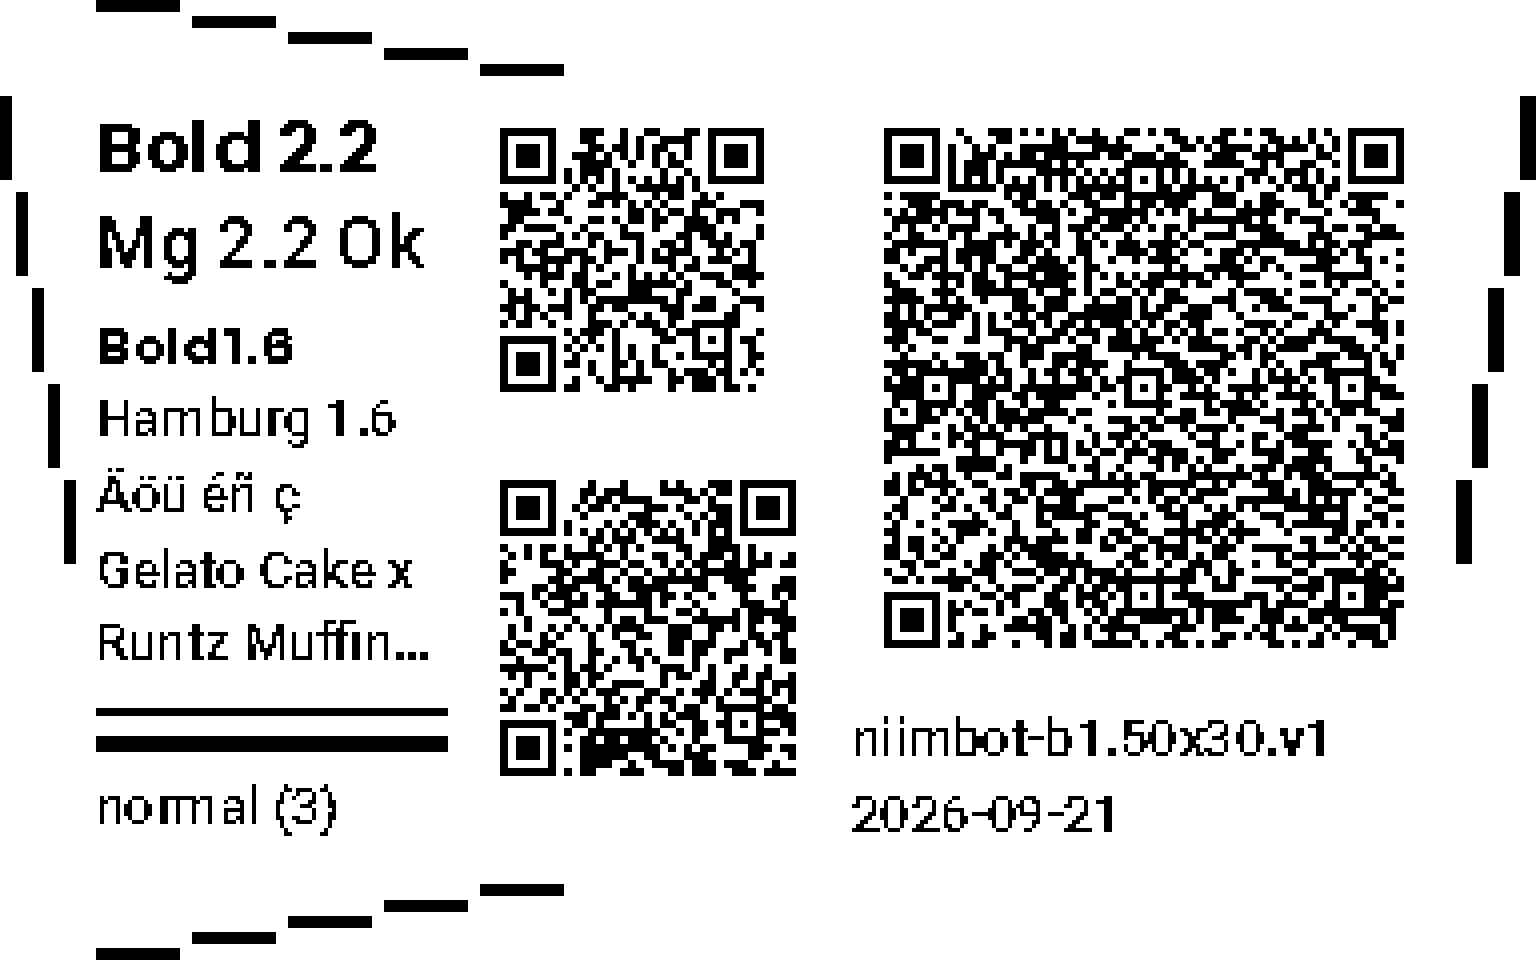
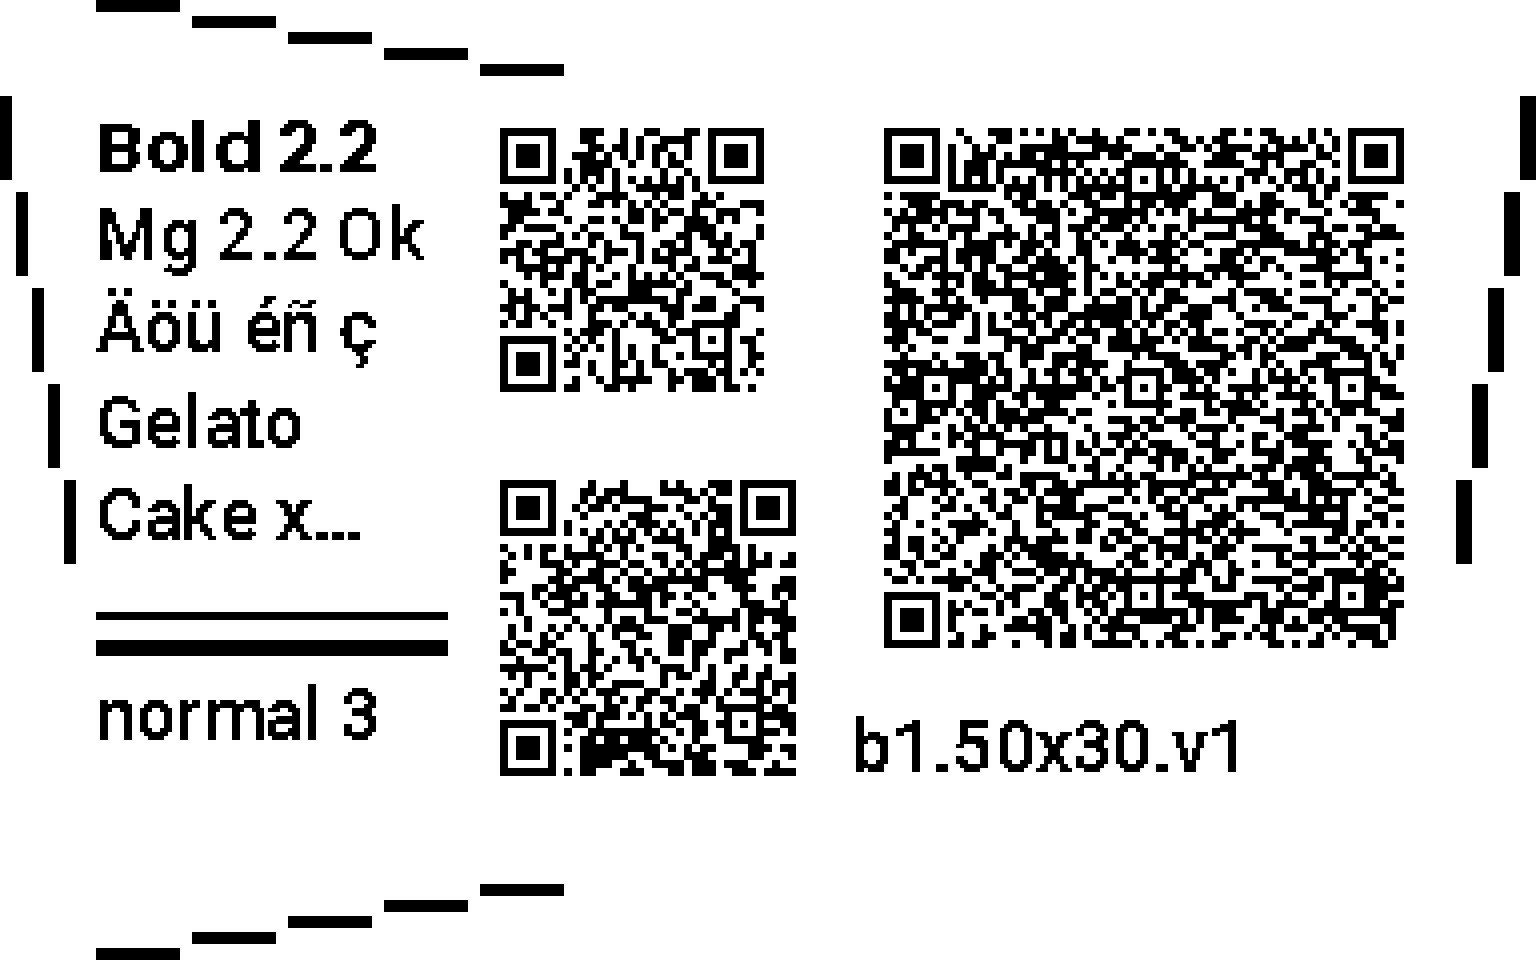
docs(labels): describe the evidence label at the B1's proven 2.2 mm floor
Issue #231. The B1 profile was promoted on the 2026-09-22 run, which showed
regular 1.6 mm text unreadable at every density. The procedure now shows the
sheet as it is drawn at the 2.2 mm floor, and points at the retained record in
growspace_manager.

diff --git a/docs/label-evidence.md b/docs/label-evidence.md
@@ -15,6 +15,8 @@ Most of the matrix comes from one label: the **evidence label**.
 
 ![The evidence label for growspace.profile.niimbot-b1.50x30.v1 at normal density, rendered by imagespec at 4x](acceptance/images/label-evidence-sheet-b1-50x30.png)
 
+The B1 profile was promoted on this procedure on 2026-09-22; its record, run log and photograph are in `growspace_manager/docs/evidence/labels/niimbot-b1.50x30.v1/2026-09-22/`. The run showed regular text at 1.6 mm unreadable at every density, so the profile's floor is now 2.2 mm and the sheet above is drawn at that floor.
+
 Every probe on it is sized from the profile's own claimed limits, so it tests
 exactly what the profile says it can do:
 
@@ -25,9 +27,9 @@ exactly what the profile says it can do:
 | Middle column, bottom   | QR: a dashboard plant URL (74 bytes)                                                          | typical target, same settings                                       |
 | Right, large            | QR: exactly 256 bytes ending in `#256`                                                        | the claimed maximum encoded bytes, same settings                    |
 | Left, first two lines   | `Bold 2.2`, `Mg 2.2 Ok`                                                                       | comfort threshold, both faces                                       |
-| Left, next lines        | `Bold 1.6`, `Hamburg 1.6`, `Äöü éñ ç`, a long strain name wrapped to two lines and truncated | readable floor, both faces, accented Latin, wrapping                |
+| Left, next lines        | `Äöü éñ ç` and a long strain name wrapped to two lines and truncated; a profile whose floor is below its comfort threshold also gets `Bold` and `Hamburg` at the floor | readable floor, accented Latin, wrapping                |
 | Left, two rules         | 0.25 mm and 0.5 mm                                                                            | thinnest claimed divider                                            |
-| Identity                | profile, `density (level)`, print date                                                        | which print this is; also printed at the floor                      |
+| Identity                | `b1.50x30.v1` under the large QR, `normal 3` under the rules                                  | which print this is; also printed at the floor                      |
 
 ## Printing it
 
